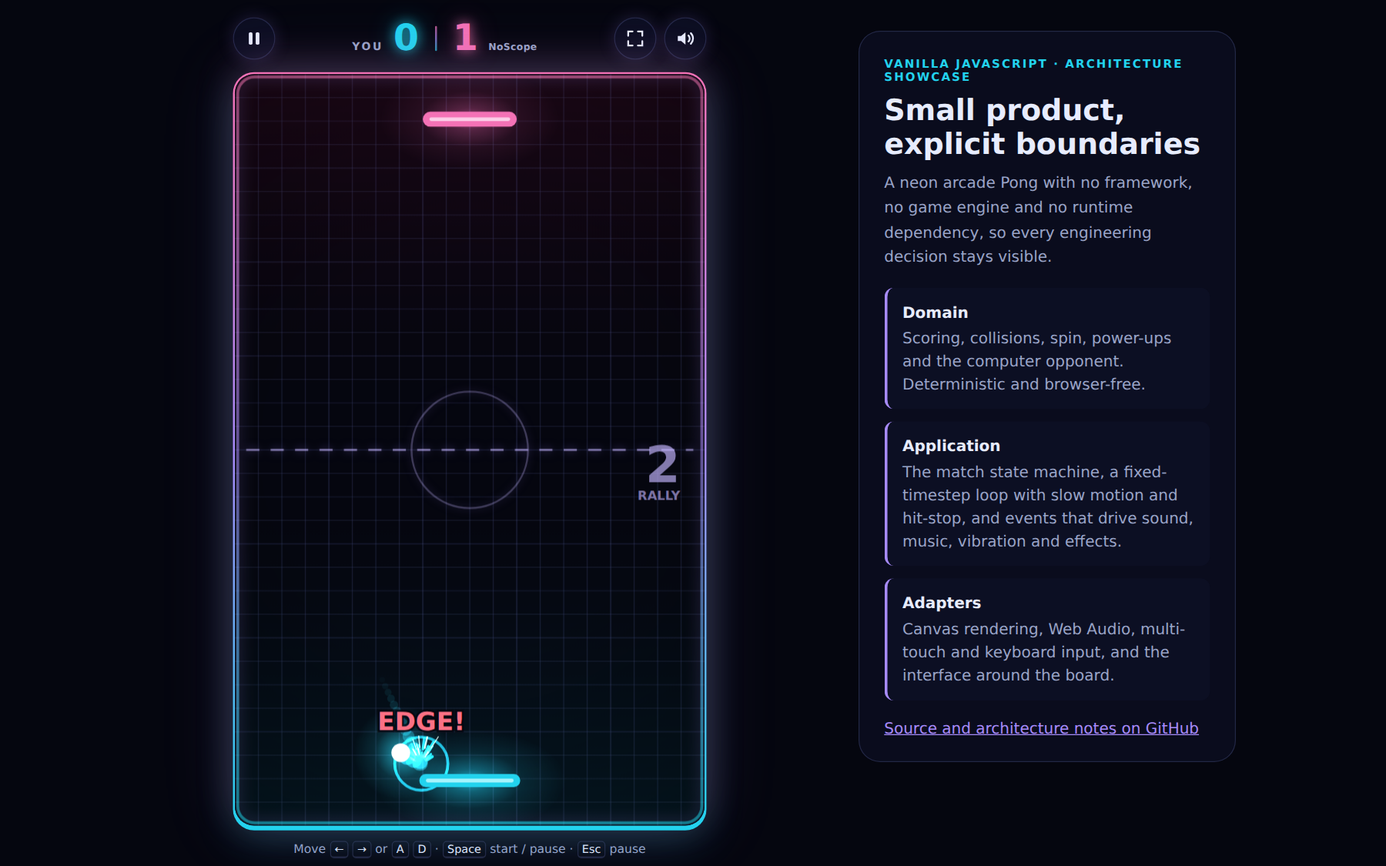
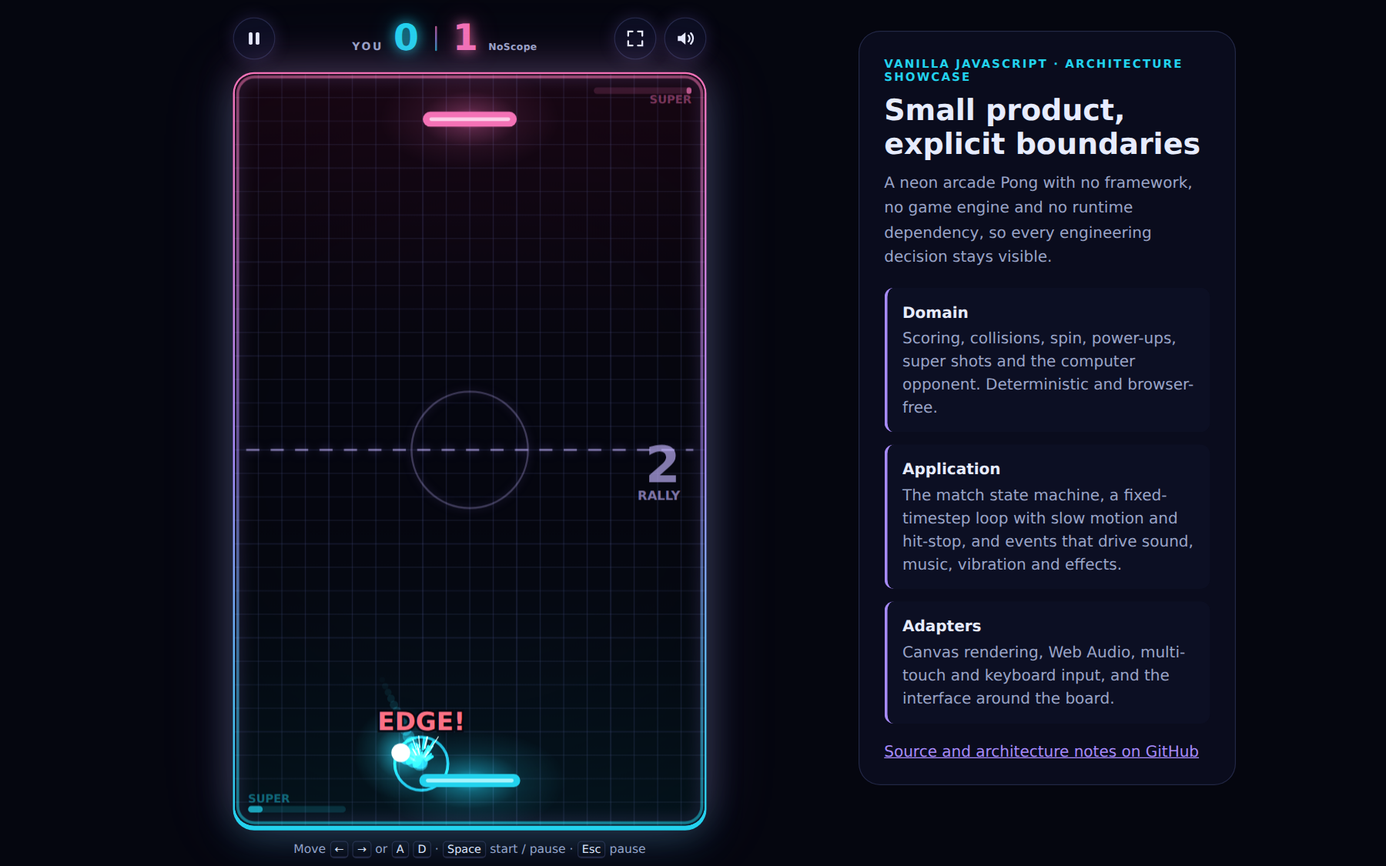
Release 3.6.0
Super shots and new finishers: README and ARCHITECTURE describe the
super meter, the four supers and how they were tuned, the finishers
and the new tests; the About panel names super shots among the rules
the domain owns; and docs/preview.png is captured again, now with the
meters in the corners of the court.

Claude-Session: https://claude.ai/code/session_019g7Li4WSjePwsAZyujX5y6

diff --git a/src/domain/supers.js b/src/domain/supers.js
@@ -34,11 +34,13 @@ const PHANTOM_SPIN = 0.3;
 // A zigzag leans this far from straight, in radians, and swerves the other way as it crosses
 // each third of the court.
 const ZIGZAG_LEAN = 0.6;
-// A phantom vanishes between these shares of its way across, and shows again in time to be met.
+// A phantom vanishes between these shares of its way across, and shows again just before it
+// arrives: the receiver must read it from its start, or from its faint shimmer.
 export const PHANTOM_FROM = 0.3;
 export const PHANTOM_TO = 0.9;
-// Thunder flies straight at the receiver's paddle and breaks late: its spin grows with the
-// square of the way it has come, just enough to land this far to the side, whatever its speed.
+// Thunder flies at the ball's top speed, straight at the receiver's paddle, and breaks late:
+// its spin grows with the square of the way it has come, just enough to land this far to the
+// side, whatever its speed.
 const THUNDER_BREAK = 110;
 const THUNDER_START_SPIN = 0.05;
 const THUNDER_SPEED_SHARE = 1;
@@ -161,9 +163,9 @@ function openSide(receiverX, ball, config) {
 /**
  * What a super does to the ordinary return it rides on. A fireball flies faster than any
  * ordinary ball can, wide of the receiver's paddle toward the open side of the court. A zigzag
- * leans toward the open side and swerves at each third of the court. A phantom goes wide too
- * and vanishes halfway across. Thunder heads straight for the receiver's paddle and breaks
- * late toward the open side.
+ * leans toward the open side and swerves at each third of the court. A phantom goes wide too,
+ * curving on while it vanishes halfway across. Thunder heads straight for the receiver's
+ * paddle and breaks late toward the open side.
  *
  * @param {SuperKind} kind
  * @param {Ball} ball

diff --git a/index.html b/index.html
@@ -192,7 +192,7 @@
           A neon arcade Pong with no framework, no game engine and no runtime dependency, so every engineering decision stays visible.
         </p>
         <ul class="layers">
-          <li><strong>Domain</strong> Scoring, collisions, spin, power-ups and the computer opponent. Deterministic and browser-free.</li>
+          <li><strong>Domain</strong> Scoring, collisions, spin, power-ups, super shots and the computer opponent. Deterministic and browser-free.</li>
           <li><strong>Application</strong> The match state machine, a fixed-timestep loop with slow motion and hit-stop, and events that drive sound, music, vibration and effects.</li>
           <li><strong>Adapters</strong> Canvas rendering, Web Audio, multi-touch and keyboard input, and the interface around the board.</li>
         </ul>

diff --git a/ARCHITECTURE.md b/ARCHITECTURE.md
@@ -38,6 +38,7 @@ script.js  ← composition root; the only module that touches browser globals
                            +--> domain/physics.js
                            +--> domain/opponent.js
                            +--> domain/power-ups.js ──> domain/random.js
+                           +--> domain/supers.js
                            +--> domain/hazards.js
 ```
 
@@ -67,6 +68,7 @@ These rules are enforced by ESLint per directory (`eslint.config.js`). `tests/ar
 - ball movement, wall reflection, swept contact between the ball and a paddle's face, corners and sides, bounce angles and speed progression
 - spin, and the curve it puts on the ball
 - the computer opponent, and the tunings a career rival may add: returns that curve away from the player, and a paddle of its own size
+- supers (`supers.js`): returns charge each side's meter, more off the paddle's edge, with curve, or when they answer a super, and a lost point helps the side behind. A full meter holds a super drawn from the seeded random source, never the one that side fired last, and fires with the next flick at a return, or, for the computer, when chance says so. A fireball flies faster than any ordinary ball, wide of the receiver; a zigzag swerves at each third of the court; a phantom hides halfway across; thunder heads straight for the receiver and breaks late, with a spin that grows as it comes, computed to land a set distance wide whatever its speed. A super ends when it is returned, and the return goes on from the pace an ordinary rally would have had; a point it wins, and a match, carry its name
 - a career boss's attacks on the player's end of the court (`hazards.js`): drips, one aimed at the player, a beam announced a second before it strikes a column, and lag, which makes the player see the balls in fits and starts. A hit only shrinks the paddle for a few seconds; attacks come in live play only, never overlap, and stop at a point
 
 The domain accepts plain data and returns new state. It does not draw, play sounds, register listeners, query the DOM, schedule frames, read the clock, or know which device produced an input command. The shapes it works with (`GameState`, `GameConfig`, `InputSnapshot`, `GameEvent`, `Rules`, `Pickup`) are declared once in `src/domain/types.js`.
@@ -83,7 +85,7 @@ Power-ups need chance: what kind appears, where, and when. The core is forbidden
 
 ### Game events
 
-Every transition lists what happened in `state.events`: `match-start`, `menu`, `paused`, `resumed`, `countdown`, `serve`, `paddle-hit`, `paddle-graze`, `wall-bounce`, `pickup-spawn`, `pickup`, `point`, `match-point`, `life-lost`, `hazard-warn`, `hazard-hit` and `game-over`, each with the data an effect needs (where, how fast, which side, the rally count, whether a Multiball ball made the hit). Quiet steps share one frozen empty list, so they allocate nothing.
+Every transition lists what happened in `state.events`: `match-start`, `menu`, `paused`, `resumed`, `countdown`, `serve`, `paddle-hit`, `paddle-graze`, `wall-bounce`, `pickup-spawn`, `pickup`, `point`, `match-point`, `life-lost`, `hazard-warn`, `hazard-hit`, `super-ready`, `super-swerve` and `game-over`, each with the data an effect needs (where, how fast, which side, the rally count, whether a Multiball ball made the hit, the super a return fired or answered, the super that won a point). Quiet steps share one frozen empty list, so they allocate nothing.
 
 Events are plain data on the state rather than callbacks or an event bus. The domain stays pure, tests assert on events directly, and any number of adapters can react without the domain knowing they exist.
 
@@ -94,7 +96,7 @@ Events are plain data on the state rather than callbacks or an event bus. The do
 - start, restart, pause/resume, and back to the menu
 - idempotent pause when the page loses focus
 - advance one simulation step and hand its events to every feedback adapter
-- build the match from the mode, difficulty and options chosen in the preferences when a new match starts, never mid-match (`buildMatchConfig`)
+- build the match from the mode, difficulty and options chosen in the preferences when a new match starts, never mid-match (`buildMatchConfig`); supers are off in every preset, so the Supers setting turns them on for the match being built, in every mode but Rush
 - tell the input adapter how many people are steering
 - drama: a short hit-stop on hard hits, and slow motion while a match-point ball closes on a paddle
 - keep the best rally (a Solo record), the best Rush run and the Solo win statistics, and flag a record worth celebrating; records are read fresh from the preferences, which another tab may have raised
@@ -165,7 +167,9 @@ Focus is managed deliberately:
 
 The renderer converts game state into pixels and implements `FeedbackPort`: game events become sparks, shockwave rings, screen shake, flashes, paddle squash, a grid pulse and victory fireworks, simulated by `Effects`, a small presentation-only particle system with injectable randomness.
 
-`canvas-renderer.js` only owns the canvas, its size and its frames. What a frame contains lives in `src/adapters/canvas/`: `theme.js` (colors and shared helpers), `court.js` (the pre-rendered court and glow sprites), `scene.js` (ball, trail, Multiball balls, paddles, power-ups, a boss's drips and beams, the Ghost fog), `hud.js` (countdown, rally counter, callouts), `ball-trail.js` and `event-effects.js` (the visual side of each game event). Each is unit-tested against a recording 2D context. Like Ghost, Lag lives only in the picture: while it lasts, the renderer redraws the balls about seven times a second, with no trail to give them away, and the game underneath runs on smoothly.
+`canvas-renderer.js` only owns the canvas, its size and its frames. What a frame contains lives in `src/adapters/canvas/`: `theme.js` (colors and shared helpers), `court.js` (the pre-rendered court and glow sprites), `scene.js` (ball, trail, Multiball balls, paddles, power-ups, a boss's drips and beams, the Ghost fog), `hud.js` (countdown, rally counter, the super meters, callouts), `ball-trail.js` and `event-effects.js` (the visual side of each game event). Each is unit-tested against a recording 2D context. Like Ghost, Lag lives only in the picture: while it lasts, the renderer redraws the balls about seven times a second, with no trail to give them away, and the game underneath runs on smoothly. A phantom is hidden the same way, from the stretch of court the domain reports (`phantomBand`), and shows only as a faint ring that careful eyes can follow.
+
+`finisher.js` decides the finisher once, from the game-over event and the final score, for the board, the sound board and the view alike: a super's own finisher for a match a super won, otherwise one of seven drawn from the match seed, now and then a comic one instead, and PERFECT! for a win to nil. Every finisher fits in the 1.2 seconds the result screen waits, flashes at most once, and is skipped by a tap.
 
 It is built for phones:
 
@@ -183,11 +187,11 @@ The page is laid out in CSS only. The stage is a size container, and the court t
 
 ### SoundBoard and MusicPlayer
 
-Both implement `FeedbackPort` with Web Audio, and every sound is synthesized at play time from oscillators and generated noise, with no audio files. The sound board plays effects: hit pitch climbs with the rally, every fifth hit adds a chime, and the countdown, power-ups, match point and a lost life each have their own cue. The music player is a step sequencer that plays one of five original tracks, written as data in `music-tracks.js` (tempo, bar roots, bass, chords, lead and drum patterns). Notes are scheduled ahead of the clock, so timing stays exact whatever the frame rate; a track starts with bass and kick alone, adds the chords with snare and hi-hat at three hits and the lead at six, fades on pause, stops at the menu, and starts every match from the bass again. Drums are synthesized too: a falling sine for the kick and high-passed noise for the snare and hi-hat. Choosing a track in the menu or on the pause screen plays a four-second preview with every layer in; it never interrupts a match, and a track changed during a pause plays from its first bar on resume. Every envelope starts silent before its first scheduled value, because a new gain node passes full level until then and a source starting a sample early would click. Both play through one audio context, owned by `AudioOutput`: browsers limit how many a page may open, so it is created once, on the first event, which always follows a click or key press, and resumed whenever the browser suspended it.
+Both implement `FeedbackPort` with Web Audio, and every sound is synthesized at play time from oscillators and generated noise, with no audio files. The sound board plays effects: hit pitch climbs with the rally, every fifth hit adds a chime, and the countdown, power-ups, match point, a lost life, a meter filling, each super and each finisher have their own cue. The music player is a step sequencer that plays one of five original tracks, written as data in `music-tracks.js` (tempo, bar roots, bass, chords, lead and drum patterns). Notes are scheduled ahead of the clock, so timing stays exact whatever the frame rate; a track starts with bass and kick alone, adds the chords with snare and hi-hat at three hits and the lead at six, fades on pause, stops at the menu, and starts every match from the bass again. Drums are synthesized too: a falling sine for the kick and high-passed noise for the snare and hi-hat. Choosing a track in the menu or on the pause screen plays a four-second preview with every layer in; it never interrupts a match, and a track changed during a pause plays from its first bar on resume. Every envelope starts silent before its first scheduled value, because a new gain node passes full level until then and a source starting a sample early would click. Both play through one audio context, owned by `AudioOutput`: browsers limit how many a page may open, so it is created once, on the first event, which always follows a click or key press, and resumed whenever the browser suspended it.
 
 ### Haptics
 
-Implements `FeedbackPort` with `navigator.vibrate`: short pulses for the player's own hits, patterns for points and the end of a match. It is inert where vibration is unsupported, and the view hides the vibration switch there.
+Implements `FeedbackPort` with `navigator.vibrate`: short pulses for the player's own hits, patterns for points, the end of a match, a super fired or answered and a meter filling. It is inert where vibration is unsupported, and the view hides the vibration switch there.
 
 ### WakeLock and BrowserDevice
 
@@ -246,12 +250,15 @@ The opponent is designed to feel like a person rather than a wall:
 - **prediction:** it folds the ball's straight path at the side walls to find where it will cross its paddle, and trusts that prediction as much as its difficulty allows
 - **misjudgement:** its error grows with ball speed and changes with every hit; it is derived from the rally state, so it stays deterministic
 - **aim:** it meets the ball off-center so the return angles away from the player
-- **no spin prediction:** a curved shot is the player's way past it
+- **no spin prediction:** a curved shot is the player's way past it, and a super's swerve or late break fools it the same way
+- **no sight of a phantom:** while one is out of sight it can only guess where it went, and may be well out, whatever its difficulty
 - **one ball at a time:** with Multiball balls in play, it keeps its eye on whichever will reach its paddle first, of those still in front of it; with the ball alone, nothing changes
 
 Prediction and physical ability remain separate: prediction chooses a target, and the speed cap limits how fast the paddle can reach it.
 
 Multiball was measured with the same human-like bots before and after it was added: the win rate on every difficulty moved only within noise. It favours whoever collects it, like every power-up; a player who follows both balls breaks about even when the computer collects it.
+
+Supers were tuned with the same bots, and with a second harness that fires each kind of super many times from rally situations: the computer waiting in the middle, as it does, and bots that react a fifth of a second late, as people do. On Normal each super wins about half its points, fewer on Hard; each side fires two or three a match; and a lost point's charge helps the side behind. Turned on, supers make the harder matches more winnable, since the bots answer the computer's supers better than it answers theirs: a decent bot's win rate on Hard rises from about a quarter to about two in five, and a casual one's on Normal from one in twenty to about one in six. The career ladder keeps its order, its last two rivals within a few points of each other either way. The Supers switch brings back the classic balance, which the reference matches pin. One finding shaped them: a computer that misjudges toward a wall stops there and still covers the corner, so supers that land near a wall are caught, and the fireball, phantom and thunder aim a set distance from the receiver instead of into the corner.
 
 ### Difficulty tuning
 
@@ -273,14 +280,14 @@ Documentation can become stale, so the project encodes its rules as checks that 
 
 The dependency-free unit suite targets deterministic rules and the logic of the adapters:
 
-- domain: state machine and events, the match and Rush rules, scoring and match point, the countdown and serve pauses, paddle control for one or two people, paddle contact on faces, corners and sides with a no-overlap property test, spin and curves, the speed cap, the opponent, power-ups, the random source, and a full rally
+- domain: state machine and events, the match and Rush rules, scoring and match point, the countdown and serve pauses, paddle control for one or two people, paddle contact on faces, corners and sides with a no-overlap property test, spin and curves, the speed cap, the opponent, power-ups, supers, the random source, and a full rally
 - application: loop lifecycle with time scale and hold, interpolation, commands, the match built per mode, drama, feedback dispatch, the rally, Rush and win-streak records, and forfeits
 - adapters: input with two-player halves and dialogs, the view with modes, the modal tutorial and focus, the canvas renderer and its modules, effects and callouts, sound and music on one audio context, vibration, the wake lock, sharing and full screen, and preferences across tabs, driven through fake event targets, a recording 2D context, fake audio contexts and fake storage thanks to injected globals
 - architecture: the lint rules themselves, and that every module loads without a browser
 
 ### Reference matches
 
-New features must not change how a classic match plays. `tests/reference-matches.test.js` replays seven recorded bot matches (Solo on every difficulty, keyboard steering, Rush, two players, and Solo with power-ups) and compares a SHA-256 digest of every step, the ball, paddles, score, rally, lives, events and any split-off balls included, with `tests/fixtures/reference-matches.json`. A change meant to alter classic play re-records the fixture with `npm run reference:record` and says why in its commit. So far only the power-up match has been re-recorded, once, when Multiball joined the kinds a power-up is drawn from; before that, the collision code it shares with the ball was reworked and all seven matches replayed identically.
+New features must not change how a classic match plays. `tests/reference-matches.test.js` replays eight recorded bot matches (Solo on every difficulty, keyboard steering, Rush, two players, Solo with power-ups, and Solo with supers, charged faster so one match fires every kind) and compares a SHA-256 digest of every step, the ball, paddles, score, rally, lives, events, any split-off balls and, with supers on, the meters included, with `tests/fixtures/reference-matches.json`. A change meant to alter classic play re-records the fixture with `npm run reference:record` and says why in its commit. So far only the power-up match has been re-recorded, once, when Multiball joined the kinds a power-up is drawn from; before that, the collision code it shares with the ball was reworked and all seven matches replayed identically, and they did again when supers were added, off in every classic preset.
 
 `tests/modules-load.test.js` loads every module under `src/`, so a file no test exercises counts at 0% instead of being left out. The coverage gate then holds the whole of `src/` to 95% lines and 90% branches and functions, and every file on its own to 90% lines, 85% branches and 80% functions, so no module can hide behind the average.
 
@@ -296,7 +303,7 @@ Playwright checks the assembled system on desktop and mobile Chromium. Instead o
 - Rush lives running out, and two players steering their own halves of the board
 - the heads-up display fitting a 320px-wide phone without sideways scrolling, and every control of its menu and pause screen at least 44 by 44 pixels
 - a phone held sideways: the HUD beside a full-height court, and a menu sheet that fits with fingertip-sized controls
-- preferences surviving a reload, and the result screen after a full match
+- preferences surviving a reload, the Supers switch hidden in Rush, the super meter on the court only while supers are on, and the result screen after a full match
 - auto-pause on focus loss, and an idle render loop outside of a match
 - a canvas backing store that matches device pixels, and an installable manifest
 
@@ -323,6 +330,7 @@ The boundaries make future changes local:
 - tune or add difficulties → `config.js`
 - add a mode → a `Rules` variant in `domain/types.js` and a preset in `config.js`
 - add a power-up → a kind in `domain/power-ups.js`, its look in `adapters/canvas/theme.js`, its sound in the sound board; the power-up reference match is re-recorded, since the kinds are drawn from the seeded random source
+- add a super → a kind in `domain/supers.js` with its launch and flight, its look in `adapters/canvas/theme.js`, a finisher in `adapters/finisher.js`, its sound in the sound board; the supers reference match is re-recorded, since the kinds are drawn from the seeded random source
 - change the opponent's personality → `domain/opponent.js`
 - new effects or sounds for an event → `adapters/canvas/event-effects.js` or the sound board, without touching the game
 - randomize serves → draw from the seeded random source already in the state, keeping the core deterministic

diff --git a/README.md b/README.md
@@ -22,28 +22,29 @@ The original 2024 version used one global script for rendering, input, physics, 
 
 - **Four ways to play.** **Solo** against the computer, first to 7. **Rush**, a survival run with three lives against a computer that returns everything but a curve, where the ball only gets faster and your score is the number of hits. **2P**, two people on one phone, each steering their own end of the court. **Career**, the ladder below.
 - **Career: The Last Arcade.** Nine regulars of the last arcade in town, each with a style and a line of story: Rookie Roma, Aunt Halyna and her wide paddle, Twisty Taras whose returns all curve, Hoarder Hryts and his power-ups, corner-sniping Sniper Sanya, Grandmaster Zina, and three bosses who fight dirty. **The Janitor** drips on your end of the court, **DJ Wobble** strikes a column of it with a beam, and **LAG**, the router in the back room, makes the balls move in fits and starts. Every attack is announced a moment before it lands, and a hit only shrinks your paddle for a few seconds. A win earns up to three stars and opens the next rival; a rival that beats you twice in a row plays tired. All the names are made up.
-- **Fun extras,** behind one Fun switch: the computer signs in under a 90s arcade-club nickname; a won match ends with a **PONGALITY**, the loser's paddle shattered, launched, sliced or boiled away while the result screen waits a moment (a tap or a key brings it at once); and a lost one counts down **CONTINUE? 9… 0** like an arcade cabinet.
+- **Super shots.** Your returns fill a meter in your corner of the court, faster off the paddle's edge, with curve, or when you return one of the other side's supers, and a lost point helps you back. A full meter holds one of four supers, never the one you fired last, and the next flick as you hit fires it: a **FIREBALL**, faster than any ordinary ball, wide of the other paddle; a **ZIGZAG**, which swerves at each third of the court; a **PHANTOM**, which vanishes halfway across; or **THUNDER**, which flies straight at the other paddle and breaks late. The computer fires its own, and between two people both do. Return one and it is **SAVED!**, and the rally goes on at its own pace; one point from winning with a super in hand, you are told to **FINISH IT!**. Each side fires two or three a match, and against the computer on Normal a super wins about half its points. Switch them off for the classic game; a Rush run never has them.
+- **Fun extras,** behind one Fun switch: the computer signs in under a 90s arcade-club nickname; a won match ends with a **PONGALITY**, the loser's paddle shattered, launched, sliced, boiled away, flattened by a meteor, drawn into a black hole or frozen solid and shattered, while the result screen waits a moment (a tap or a key brings it at once). A match won with a super ends in that super's own **SUPER PONGALITY**: the paddle incinerated, shredded, broken up into pixels or electrocuted. Now and then a comic **TINYALITY** or **SNOOZALITY** plays instead, and a win to nil is **PERFECT!**. A lost match counts down **CONTINUE? 9… 0** like an arcade cabinet.
 - **Portrait neon court** that fills a phone held upright and reads as a vertical arcade cabinet on desktop.
 - **Curve shots:** flick the paddle as it meets the ball and the ball bends in that direction. The computer cannot predict a curve.
 - **Power-ups** appear mid-rally and go to whoever hit the ball last: **Wide** enlarges your paddle, **Shrink** shrinks the other side's, **Turbo** turns your shot into one blistering ball until it is returned, **Ghost** hides the ball in the other side's half, and **Multiball** splits a second ball off yours. A split-off ball bounces and scores like the ball, but its returns do not count toward the rally, and it fades after a few seconds. The computer keeps its eye on whichever ball reaches it first. They can be switched off.
 - **A computer that plays like a person:** it reacts only once the ball comes within its reach, aims its returns away from you, and misjudges fast balls more.
 - **Three difficulties** — Easy, Normal, Hard — tuned by simulating matches against human-like bots.
-- **Drama:** a 3-2-1 countdown before the first serve, a **Match point** banner, slow motion as a match-point ball closes on a paddle, a split-second freeze on hard hits, and callouts for a **CURVE!**, a **SMASH!** or an **EDGE!** catch.
+- **Drama:** a 3-2-1 countdown before the first serve, a **Match point** banner, slow motion as a match-point ball closes on a paddle, a split-second freeze on hard hits, and callouts for a **CURVE!**, a **SMASH!**, an **EDGE!** catch, a super by name and a **SAVED!** one.
 - **Rallies that build:** every hit speeds the ball up, the rally counter pulses, long rallies heat the ball into a "fever" glow, and the music adds a layer at 3 hits and another at 6.
 - **Juice:** sparks, shockwaves, screen shake, flashes, a speed-heated ball trail and victory fireworks, with synthesized sound effects, a synthesized backing track and vibration.
 - **Five backing tracks**, all original and synthesized in the browser: **Neon** (synthwave), **Arena** (arcade fighter techno), **Anthem** (a big synth-brass anthem), **Contender** (training-montage rock) and **Iron** (heavy industrial). The ♪ button in the menu or the pause screen switches track and plays a few seconds of it.
 - **Thumb rail:** on touch screens, a strip below the court steers the paddle, so your thumb never covers the play.
 - **Solid paddles:** the ball meets a paddle's face, corners and sides as solid shapes. Clip a front corner and it comes back from the edge; catch it on the side and it glances off, but it never passes through. Once you have missed, a paddle moved into the ball stops against it instead of dragging it along.
 - **Made for the phone:** a first-visit tutorial, full-screen mode, the screen stays awake during a match, and a Share button for a result. Every control is at least 44 by 44 pixels, the size a fingertip needs, even on a 320px-wide screen. Held sideways, the heads-up display becomes a column beside a full-height court, and the menus open as sheets across the screen.
-- Mode, difficulty, power-ups, sound, music and its track, vibration, your best rally, your best Rush run, your Solo win record and your career stars are remembered between visits, and stay in step across open tabs. Leaving a Solo match after its first point counts as a loss, so a streak is earned, not protected.
+- Mode, difficulty, power-ups, supers, sound, music and its track, vibration, your best rally, your best Rush run, your Solo win record and your career stars are remembered between visits, and stay in step across open tabs. Leaving a Solo match after its first point counts as a loss, so a streak is earned, not protected.
 
 ## What it demonstrates
 
 - browser-agnostic **domain + application core**, kept deterministic (no clock, no randomness)
 - explicit state machine: `ready → running ↔ paused → game-over`
-- **domain events** (`paddle-hit`, `point`, `match-point`, `pickup`, `game-over`, …) emitted by the simulation and turned into sound, music, vibration and visual effects by independent adapters
+- **domain events** (`paddle-hit`, `point`, `match-point`, `pickup`, `super-ready`, `game-over`, …) emitted by the simulation and turned into sound, music, vibration and visual effects by independent adapters
 - **rules as data:** a match and a Rush run share one simulation; the rules object decides how a point counts
-- a **deterministic random source** kept in the game state, so power-ups and boss attacks vary between matches while the same seed replays a match exactly
+- a **deterministic random source** kept in the game state, so power-ups, supers and boss attacks vary between matches while the same seed replays a match exactly
 - **content as data:** the career ladder is a list of rivals in `catalog.js`, each a tuning of the same game; bosses add attacks the domain runs like any other rule
 - a fixed-step loop with a **time scale and hit-stop hold**, so slow motion and freeze frames never touch the simulation's step size
 - fixed-timestep simulation with render interpolation, independent from display refresh rate
@@ -54,7 +55,7 @@ The original 2024 version used one global script for rendering, input, physics, 
 - a Canvas renderer built for phones: pre-rendered glow sprites and background layers, additive blending, and a capped pixel ratio
 - layer boundaries enforced by ESLint, with tests proving the rules still reject violations
 - unit tests behind an honest coverage gate: every module is loaded, so an untested file counts at 0%, and each file must clear its own floor, not just the average
-- **reference matches:** seven recorded bot matches replayed step by step and compared by digest, so new features provably leave classic play untouched
+- **reference matches:** eight recorded bot matches replayed step by step and compared by digest, so new features provably leave classic play untouched
 - accessible overlays: a native modal tutorial with managed focus, labelled pause and result dialogs, and decorative glyphs hidden from screen readers
 - Playwright tests on desktop and mobile Chromium that assert on the rendered canvas
 - an installable web app (manifest and icons) with safe-area-aware, reduced-motion-aware styling
@@ -105,6 +106,7 @@ script.js (composition root: the only place that touches browser globals)
                     +-- physics ----- swept paddle contact, bounce angles, spin
                     +-- opponent ---- reach, prediction, aim, misjudgement
                     +-- power-ups --- pickups, effects, Multiball, a seeded random source
+                    +-- supers ------ the super meters and the four super shots
                     +-- hazards ----- a career boss's drips, beams and lag
 ```
 
@@ -165,6 +167,7 @@ See [ARCHITECTURE.md](./ARCHITECTURE.md) for the design rationale and trade-offs
 │   │   ├── physics.js
 │   │   ├── power-ups.js
 │   │   ├── random.js
+│   │   ├── supers.js
 │   │   └── types.js
 │   ├── catalog.js              the matches a player can choose, the career ladder included
 │   └── config.js
@@ -209,6 +212,7 @@ npm run docs:icons     # regenerate the app icons from icons/icon.svg
 - **Mouse:** move over the court; in 2P, press and drag
 - **Keyboard:** `←` / `→` or `A` / `D` to move (by physical key, so any layout works, including Ukrainian and AZERTY), `Space` to start or pause, `Esc` to pause. Player 2 uses `J` / `L` or the numpad `4` / `6`.
 - **Curve:** flick the paddle sideways as it meets the ball
+- **Super:** with a full meter, the same flick as you hit fires it
 
 Whichever device you used last steers the paddle, so the keyboard works even while the mouse rests on the board. Clicking a button hands focus back to the board, so `Space` keeps working. While the tutorial is open, `Space`, `Enter` and `Esc` belong to it: the game behind it takes no keys or touches. The match pauses by itself when the window loses focus or the tab is hidden, and the page cannot scroll away while you play. Browser shortcuts such as `Ctrl+A` are never intercepted.
 
@@ -232,8 +236,9 @@ The dependency-free unit suite covers:
 - the state machine, scoring, serves, the 3-2-1 countdown, match point, and the events every transition emits
 - the Rush rules (lives, hits, no win condition for the computer) and two-player steering of the top paddle
 - power-ups: spawning on schedule, each effect, wear-off through serve pauses, the computer's blindness to a ghosted ball, and Multiball's split-off balls, which bounce, score and fade but stay out of the rally
+- supers: the meter's charge for a return, an edge, a curve, a save and a lost point; a full meter's super, drawn and never the last one; firing by a flick or, for the computer, by chance; each super's flight; a saved super's return at the rally's pace; a phantom the computer can only guess at; and points and matches named after the super that won them
 - a career boss's attacks: drips aimed at the player, a beam announced before it strikes, lag, a hit that only shrinks the paddle for a while, and attacks that never overlap and stop at a point
-- the reference matches: seven recorded bot matches, Solo on every difficulty, keyboard steering, Rush, two players and power-ups, replayed step by step against their digests
+- the reference matches: eight recorded bot matches, Solo on every difficulty, keyboard steering, Rush, two players, power-ups and supers, replayed step by step against their digests
 - the deterministic random source, so a seed replays a match
 - paddle control, the speed cap, spin from a moving paddle, curves that keep their speed and never stall a rally, and a full deterministic rally
 - paddle contact: faces, clipped corners, sides, a paddle run into a missed ball or yanked toward a wall, a paddle that flashes across under the ball, fast balls at any speed, and a property test over 60 bot matches in which the ball never overlaps a paddle
@@ -254,7 +259,7 @@ Playwright runs the real application in desktop and mobile Chromium. It reads th
 - the first serve counts down from three before the ball moves
 - the first visit opens the tutorial once as a modal dialog; `Space` closes it without starting a match, `Esc` closes it too, and either is remembered
 - Rush shows lives as hearts and ends when they run out; two players get their own halves of the board
-- mode, difficulty, power-up and sound choices survive a reload
+- mode, difficulty, power-up, super and sound choices survive a reload; a Rush run has no Supers switch, and the super meter shows in the corner of the court only while supers are on
 - a lost match ends on the result screen, with full effects and no page errors, and Play again starts a new one
 - the computer's nickname follows the Fun switch; a won match ends with a Pongality before the result screen, which a tap or a key brings at once without starting the next match
 - the career opens as far as the rivals beaten, names the rival as a match starts, the first boss's drip shrinks a paddle that stands still, and a lost match counts down to game over
